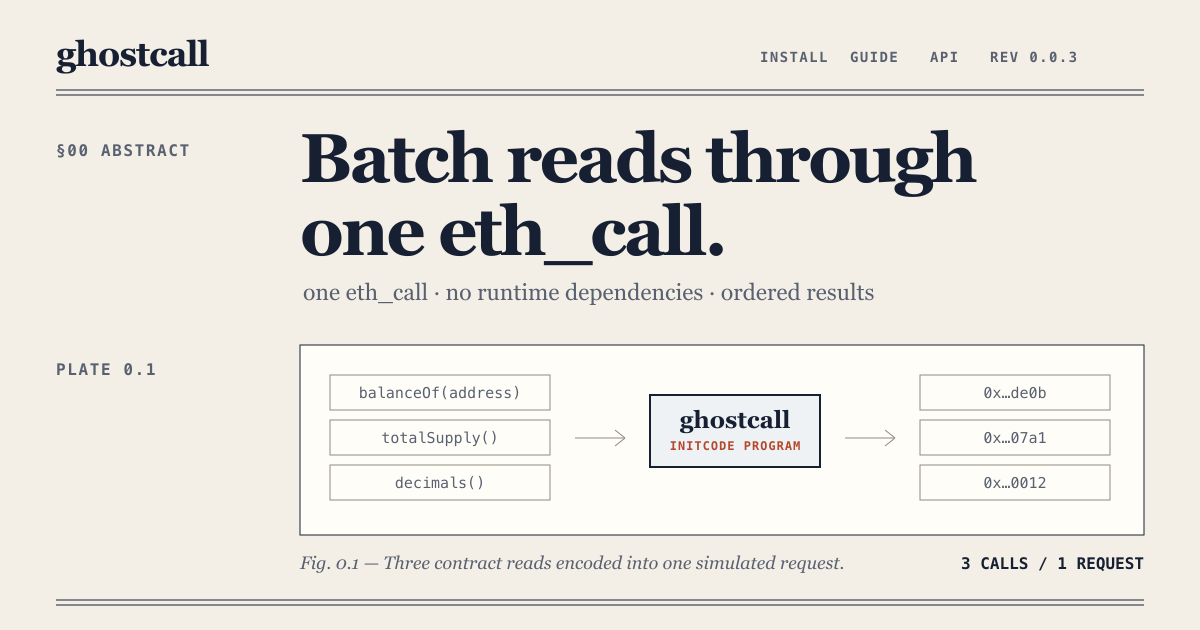
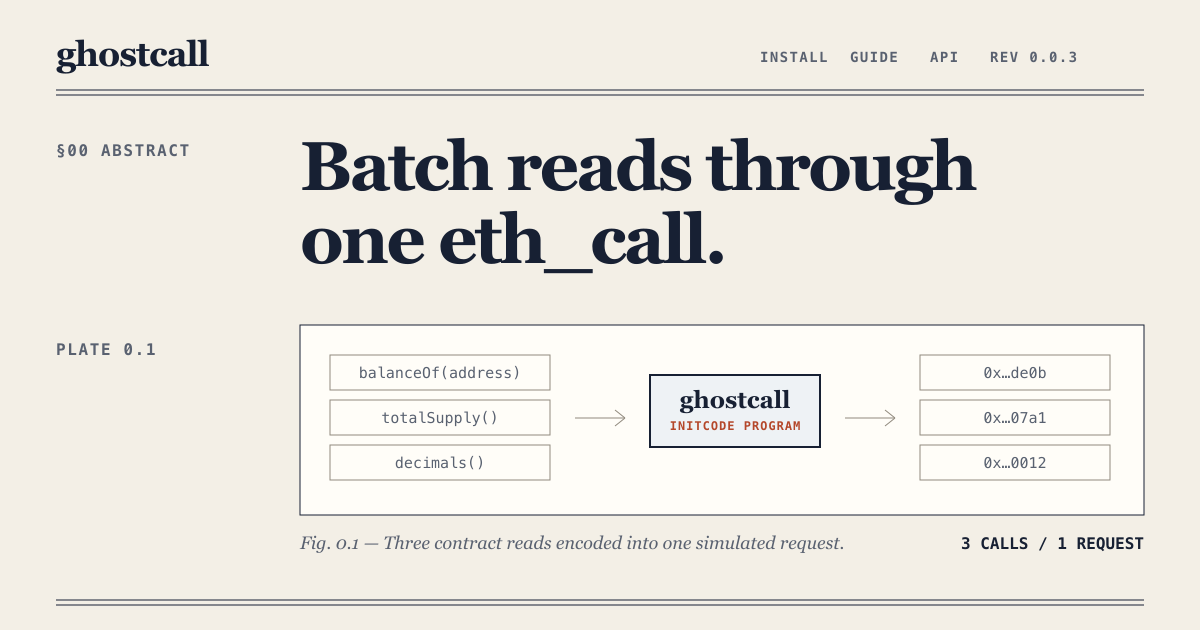
docs: clean up technical manual

diff --git a/docs/src/styles/volga.css b/docs/src/styles/volga.css
@@ -170,10 +170,8 @@ body {
 .main-pane,
 main,
 .content-panel,
-.content-panel > .sl-container,
 .sl-markdown-content {
 	min-width: 0;
-	max-width: 100%;
 }
 
 .content-panel {
@@ -182,10 +180,7 @@ main,
 
 .content-panel > .sl-container {
 	width: 100%;
-}
-
-:root:not([data-has-hero]) .content-panel > .sl-container {
-	max-width: var(--sl-content-width);
+	min-width: 0;
 }
 
 main {
@@ -251,34 +246,6 @@ site-search dialog {
 .sidebar-content a[aria-current="page"] {
 	box-shadow: inset 1px 0 0 var(--gc-accent);
 	color: var(--gc-accent);
-	font-weight: 600;
-}
-
-.right-sidebar-panel {
-	border-inline-start-color: var(--gc-rule);
-	font-family: var(--gc-font-mono);
-}
-
-.right-sidebar-panel h2 {
-	color: var(--gc-muted);
-	font-size: 0.66rem;
-	font-weight: 600;
-	letter-spacing: 0.09em;
-	text-transform: uppercase;
-}
-
-.right-sidebar-panel a {
-	color: var(--gc-muted);
-	font-size: 0.69rem;
-	font-weight: 400;
-}
-
-.right-sidebar-panel a:hover,
-.right-sidebar-panel a[aria-current="true"] {
-	color: var(--gc-accent);
-}
-
-.right-sidebar-panel a[aria-current="true"] {
 	font-weight: 600;
 }
 
@@ -371,7 +338,6 @@ site-search dialog {
 	overflow: hidden;
 	border: 1px solid var(--gc-ink);
 	border-radius: 0;
-	background: var(--gc-code);
 	box-shadow: none;
 }
 
@@ -400,7 +366,6 @@ site-search dialog {
 	max-width: 100%;
 	overflow-x: auto;
 	border-radius: 0;
-	background: var(--gc-code);
 	font-family: var(--gc-font-mono);
 	scrollbar-color: #aab2bb var(--gc-code);
 }
@@ -408,8 +373,6 @@ site-search dialog {
 .expressive-code .copy button {
 	border: 1px solid var(--gc-rule-strong);
 	border-radius: 0;
-	background: var(--gc-surface);
-	color: var(--gc-code-ink);
 }
 
 .expressive-code .copy button:hover {
@@ -479,13 +442,6 @@ site-search dialog {
 [data-has-hero] .sl-markdown-content {
 	width: 100%;
 	max-width: none;
-}
-
-[data-has-hero] .manual-section,
-[data-has-hero] .manual-section-body {
-	width: 100%;
-	min-width: 0;
-	max-width: 100%;
 }
 
 [data-has-hero] .manual-section-body {

diff --git a/docs/src/content/docs/api/index.md b/docs/src/content/docs/api/index.md
@@ -14,9 +14,9 @@ ghostcall exports four functions, one error class, and their TypeScript types.
 | Build request data without sending it | [`encodeCalls()`](/api/encode-calls/) |
 | Parse a manually sent response | [`decodeResults()`](/api/decode-results/) |
 
-Start with `aggregateDecodedCalls()` for normal application reads. Use
-`aggregateCalls()` when some calls may fail or raw return data is needed.
-The encoding and decoding functions are for callers that send their own RPC
+Use `aggregateDecodedCalls()` when every call must succeed and decoded values
+are needed. Use `aggregateCalls()` when some calls may fail or raw return data
+is needed. Use `encodeCalls()` and `decodeResults()` for manually sent RPC
 requests.
 
 ## Exports

diff --git a/docs/src/content/docs/api/aggregate-calls.md b/docs/src/content/docs/api/aggregate-calls.md
@@ -4,8 +4,8 @@ description: Send a batch and return raw success or failure results.
 ---
 
 `aggregateCalls()` sends one `eth_call` and returns raw results in call order.
-Use it when success flags, revert data, or permission for selected
-calls to fail.
+Use it when success flags or revert data are needed, or when selected calls may
+fail.
 
 ## Usage
 
